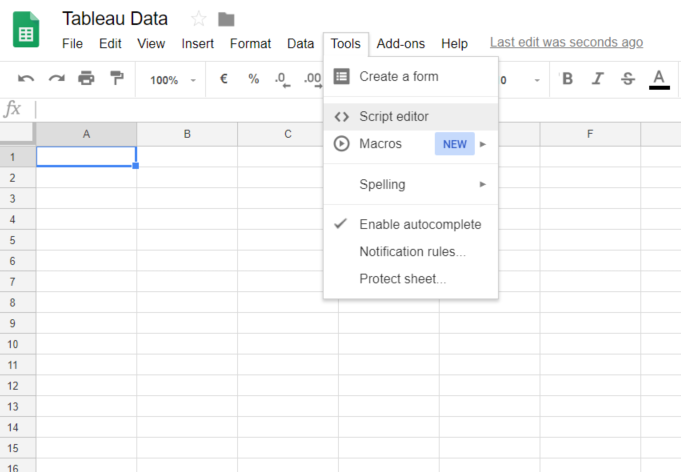
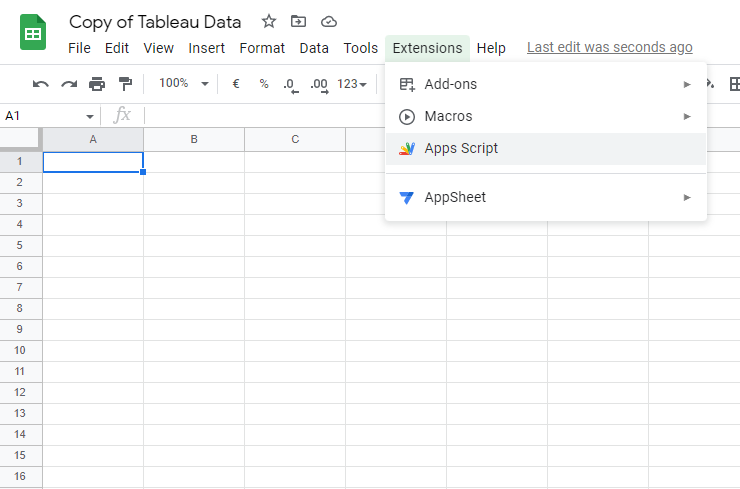
Updated documentation images and instructions.

diff --git a/docs/setGoogleSpreadsheet.html b/docs/setGoogleSpreadsheet.html
@@ -37,18 +37,22 @@
                     <img class='ggl' src="../img/spreadsheet/google1.png"/>
                 </div>
                 <li>Open the Spreadsheet;</li>
-                <li>Go to Tools -> Script;</li>
+                <li>Go to Extensions -> Apss Script;</li>
                 <div class='center-image'>
                     <img class='ggl' src="../img/spreadsheet/google2.png"/>
                 </div>
                 <li>You will see that there is already a script there. This  will be your REST API that will get the data from Tableau;</li>
-                <li>Select Publish -> Deploy as web app.</li>
+                <li>Select Deploy -> New deployment.</li>
                 <div class='center-image'>
                     <img class='ggl' src="../img/spreadsheet/google3.png"/>
                 </div>
-                <li>Under Project version, select a new version.</li>
+                <li>Then choose Web App</li>
+                <div class='center-image'>
+                    <img class='ggl' src="../img/spreadsheet/google3_1.png"/>
+                </div>
+                <li>Under Description, you can place, for example, "Write-Back Free".</li>
                 <li>Under Execute the app as, select whose authorization the app should run with: your account (the developer's) or the account of the user who visits the app (see permissions).</li>
-                <li>Under Who has access to the app, select who should be allowed to visit it. Select: "Anyone, even anonymous".</li>
+                <li>Under Who has access to the app, select who should be allowed to visit it. Select: "Anyone".</li>
                 <div class='center-image'>
                     <img class='ggl' src="../img/spreadsheet/google4.png"/>
                 </div>
@@ -63,7 +67,7 @@
                 <div class='center-image'>
                     <img class='ggl' src="../img/spreadsheet/google6.png"/>
                 </div>
-                <li>YOu will see a new prompt that will show the permission you are giving the script. Click Allow</li>
+                <li>You will see a new prompt that will show the permission you are giving the script. Click Allow</li>
                 <div class='center-image'>
                     <img class='ggl' src="../img/spreadsheet/google7.png"/>
                 </div>

diff --git a/docs/extensionConfiguration.html b/docs/extensionConfiguration.html
@@ -37,12 +37,12 @@
                 <p>After copying the Spreadsheed do the following:</p>
                 <ol>
                     <li>Open the Spreadsheet;</li>
-                    <li>Go to Tools -> Script;</li>
+                    <li>Go to Extensions -> Apps Script;</li>
                     <li>You will see that there is already a script there. This  will be your REST API that will get the data from Tableau;</li>
-                    <li>Select Publish > Deploy as web app.</li>
-                    <li>Under Project version, select a new version.</li>
+                    <li>Select Deploy -> New deployment.</li>
+                    <li>Under Description, you can place, for example, "Write-Back Free".</li>
                     <li>Under Execute the app as, select whose authorization the app should run with: your account (the developer's) or the account of the user who visits the app (see permissions).</li>
-                    <li>Under Who has access to the app, select who should be allowed to visit it. Select: "Anyone, even anonymous".</li>
+                    <li>Under Who has access to the app, select who should be allowed to visit it. Select: "Anyone".</li>
                     <li>Click Deploy.</li>
                     <li>You will be prompted to allow the application to access your google spreadsheet, if you are not prompted to do it, please run the setup and enable the script to access your spreadsheet;</li>
                     <li>You will get a link like this: <code> https://script.google.com/...</code> </li>
